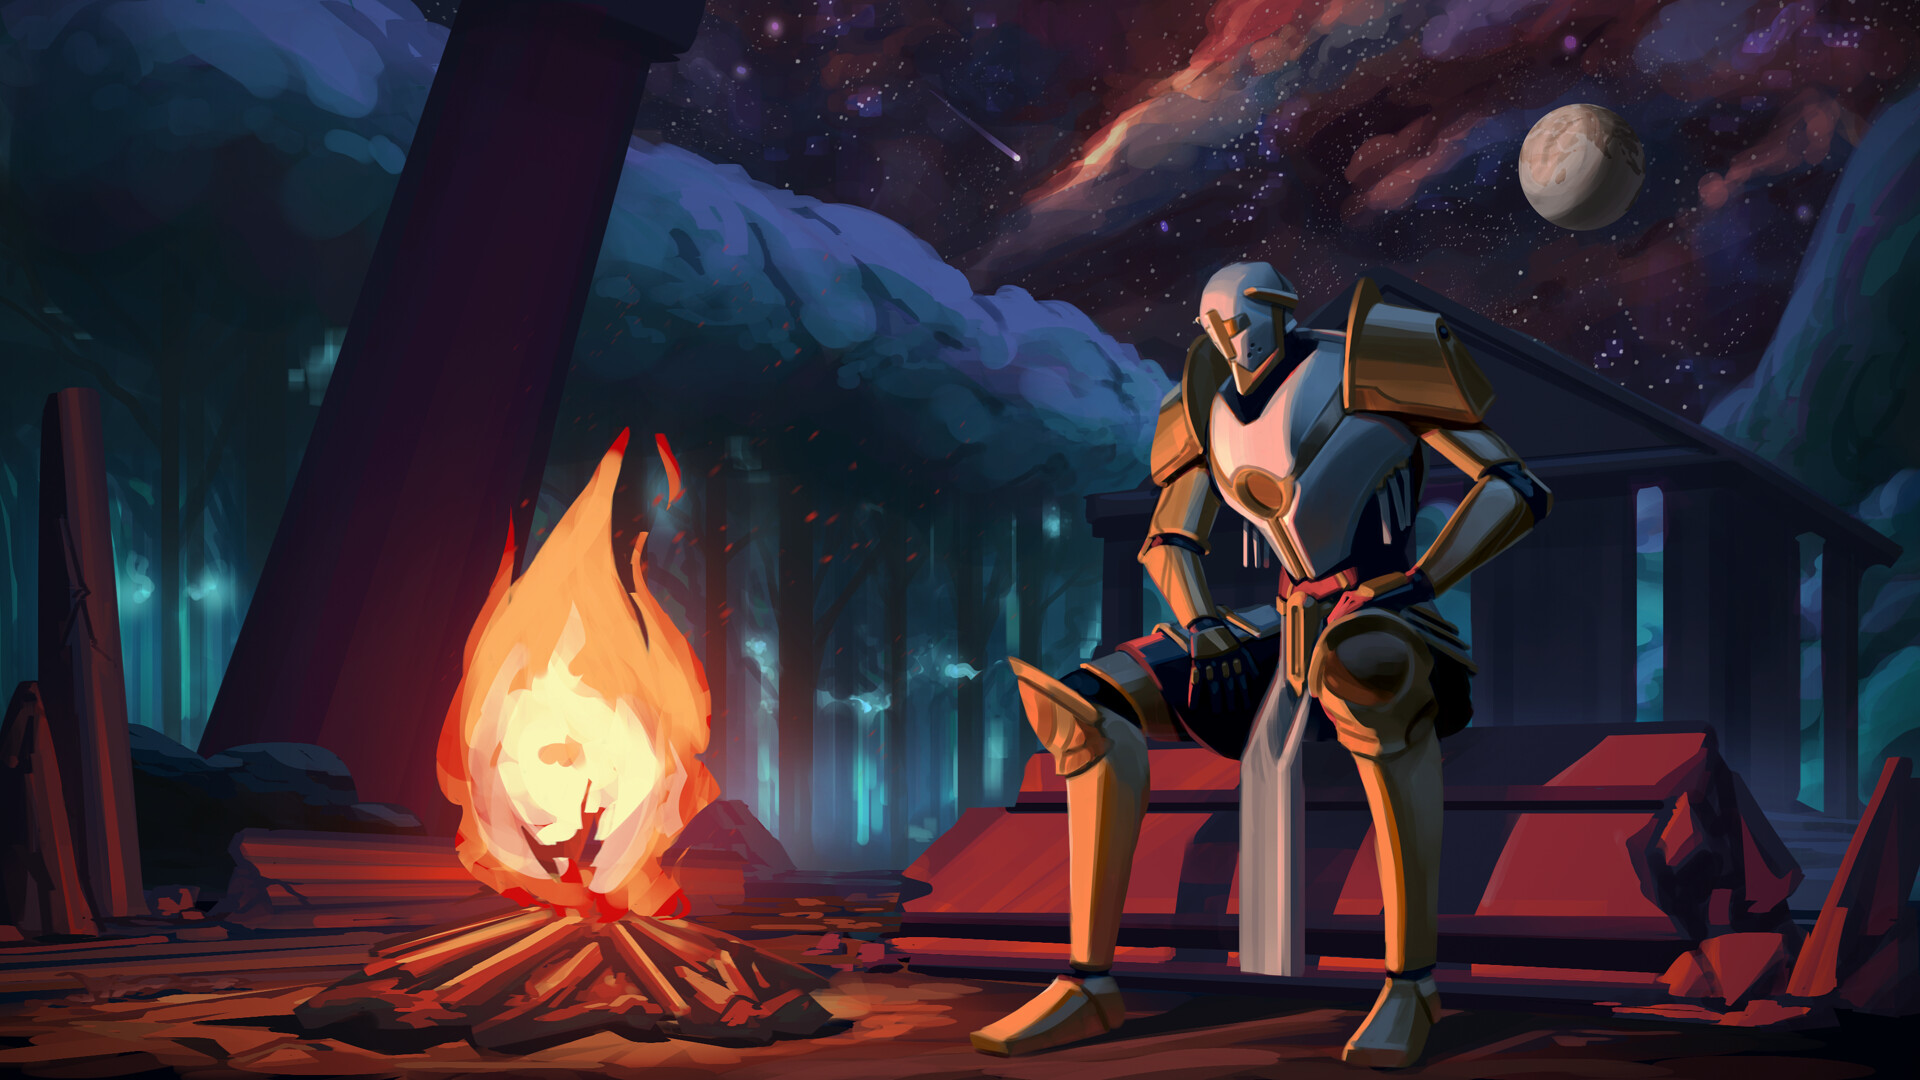
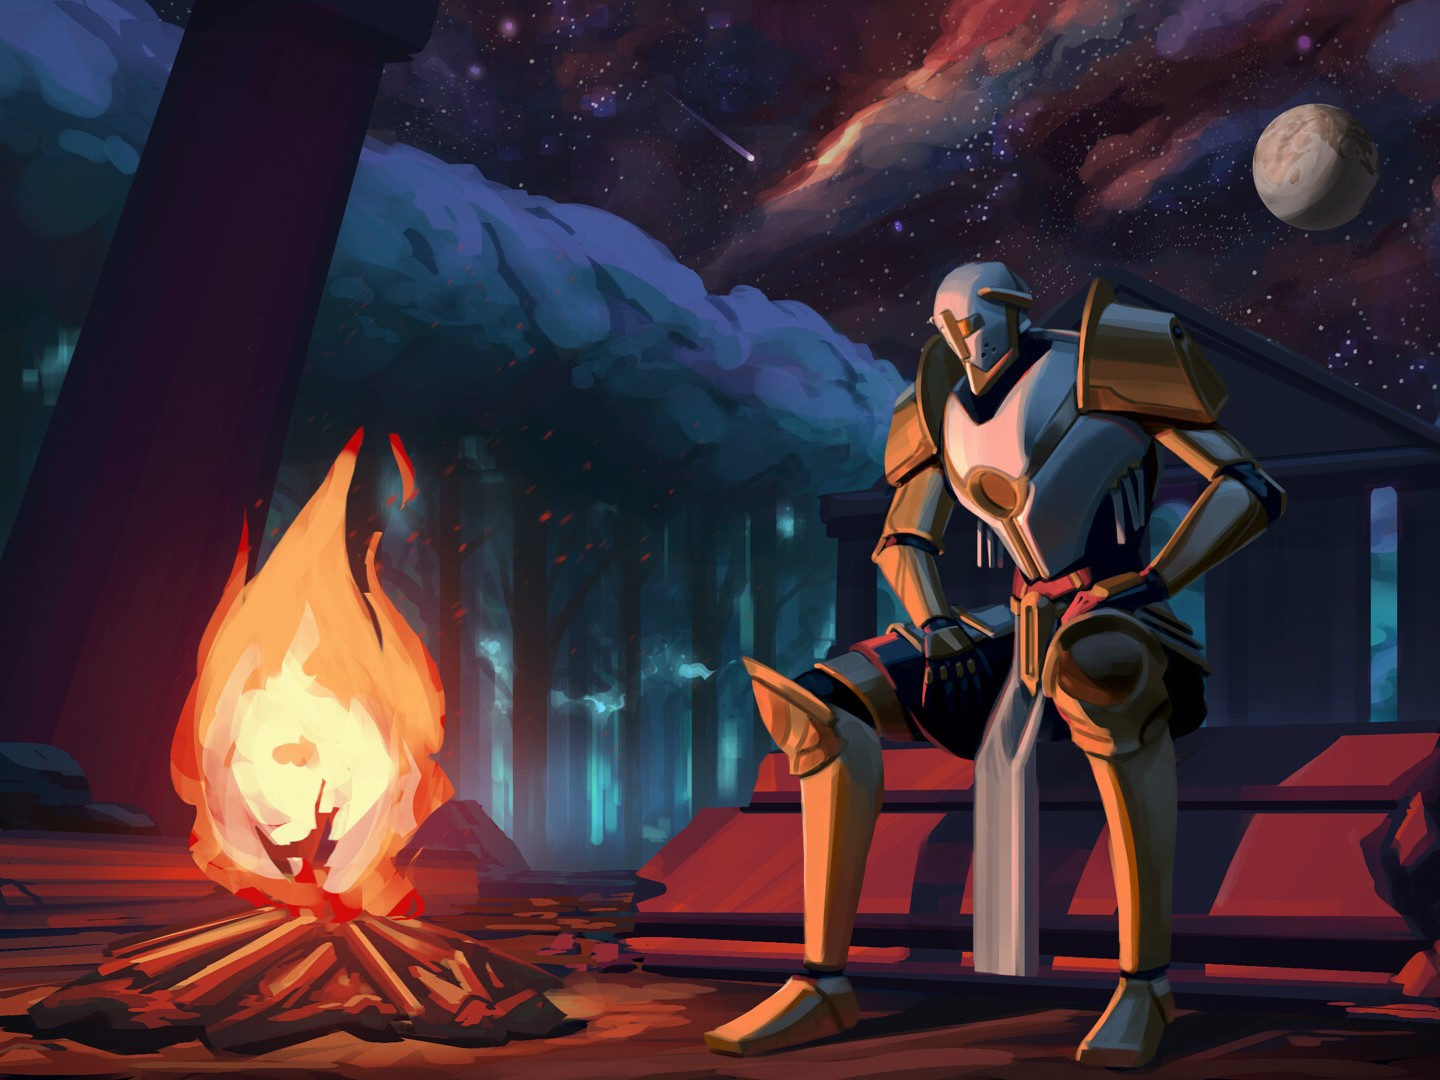
11/5 Part 6
Game Description finished

diff --git a/pdescription.html b/pdescription.html
@@ -108,11 +108,18 @@ body {
     box-shadow: none;
 }
 
-p, h1, h2{
+p, h2, h3{
   font-size: 20;
   font-weight: bold;
   color: white;;             
   -webkit-text-stroke: 0.2px red; /* gray outside */
+}
+
+h1{
+  font-size: 20;
+  font-weight: bold;
+  color: white;;             
+  -webkit-text-stroke: 0.4px red;
 }
 
 .translucent-box {
@@ -339,11 +346,22 @@ main {
     <div class="descripthero-content">
       <div class="translucent-box">
     <h1>ULTRAKILL</h1>
-    <p>ULTRAKILL (intentionally pronounced with all caps) is a high-intensity run and gun shooter that follows a war machine fueled by blood terrorizing its way through the seven layers of Hell as described in Dante's Inferno, following the extinction of humanity.</p>
+    <p>ULTRAKILL (intentionally pronounced with all caps) is a high-intensity run and gun shooter that follows a war machine fueled by blood terrorizing its way through the seven layers of Hell as described in Dante's Inferno, following the extinction of humanity after the dissappearance of God.</p>
      <h2> The "Protagonist"</h2>
      <p>The main character you play as, a robot simply titled V1, is a war machine developed during a far extended World War 1, where peace was never made, and each side kept making stronger and deadlier machines of mass destruction, with V1 intended on being the strongest to date, before the model was shut down following the war finally ending.</p>
     <h2>The Descent</h2>
     <p>Some time after the war ended, a time period known as the "New Peace" was declared, making a period of brief prosperity between all people. At some point during this period, a mass excavation was made into the earth, and what was found were the numerous gates of Hell. An unknown amount of time after this, all remaining humans on earth died off with seemingly no trace, leaving the blood-powered machines remaining. With the only blood sources left to be found in each other, and what lies on the other side of the gates.</p>
-    </div>
+   <h2>The Angel</h2>
+   <p>The angel Gabriel, declared the new Judge of Hell after slaying the old one for being too kind and gentle to Hell's residents, soon realizes the machines' raid on hell and intends on making an example out of V1, just to get beaten not once, but TWICE throughout the layers of hell.
+    <p>Now, despite V1 being the "protagonist" and character we play as, Gabriel is most definitely depicted as the hero of this story. After his first battle within the layer of gluttony, he gets ridiculed by other angels for being beaten by a mere object, before severing God's light from his body, giving him only 24 hours to right his wrong before he dies. Now enraged, he swore to enact revenge in the heresy later, just to be beaten again, and flees to have a deep retrospection by a campfire.</p>
+    <h2>The Insurrection</h2>
+    <p>As if inspired by the rebellion in both the Lust and Greed layers of hell, in which the leaders of each he had slaughtered leading to the rebellion's fall, Gabriel marched back up to heaven, finding the council of angels that had previously punished him, and found them unworthy of governing heaven in God's absence, slaughtering them all in the meeting room before holding one's head for all to see outside its doors.</p>
+   <h2><span style="color: red">Hell.</span></h2>
+   <p>As V1 descends deeper, seemingly odd happenings continue occurring throughout. Enemies mysteriously manage to teleport into rooms as you walk into them, doors lock in front of and behind you to trap you in an arena. As Ultrakill is still in early development, with 8/9 of the layers available, it is only HEAVILY theorized that this is hell itself engaging and toying with the raiding machines for its own amusement.</p>
+   <p>Until the end of the Violence layer and especially throughout the Fraud layer, Hell acted as more of a spectator to the machines arrival and slaughter, until V1 had killed the rooted Earthmover; previously humanity's finest and most powerful war machine, able to carry entire cities on its back. With This being Hell's favorite machine for its needless violence, it quickly began following V1's remaining venture, and toying with it all throughout the Fraud layer.</p>
+   <h3>That's all folks!</h3>
+   <p>With Layer 9, Treachery still being in development, Ultrakill's story is still unconcluded. Although there are several theories about how the game will end, I personally suggest you play the game yourself to come up with some ideas. There's still several secrets and key details I left out, as this is supposed to be more of a synopsis than an in depth layout. Have fun playing!</p>
+
+  </div>
     </section>
 </main>
